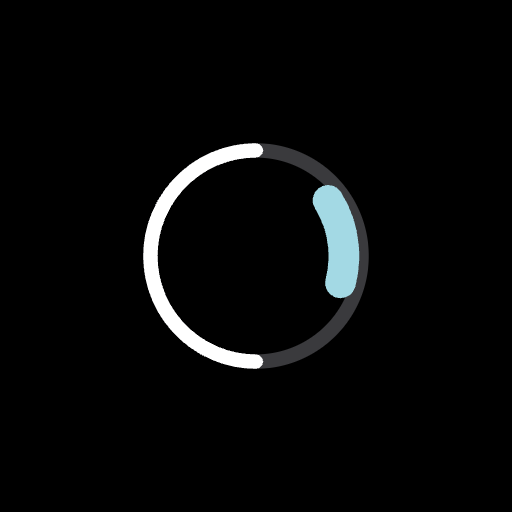
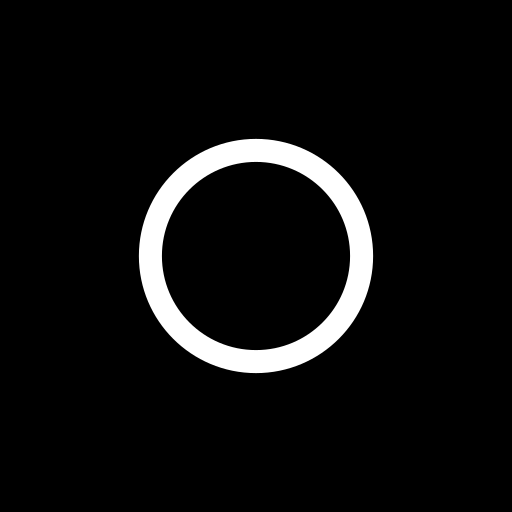
feat: give circal a mark and a share card
The favicon was a grey ring, a white half-turn and a blue arc — a
miniature of an old dial nobody would recognise at 16px. It is now the
one thing the product is: a black disc and a single thin white
circumference.

- r=11 and stroke 2.4 were picked by rendering at 16px, not by ratio.
  That radius lands both stroke edges on whole pixels, and anything
  thinner antialiases to grey rather than white.
- icon.svg is the same ring full-bleed for the maskable crop; the three
  PNGs are rasterised from it with rsvg-convert.
- CACHE in sw.js goes to v2. public/ is the only unhashed part of the
  build and it is served stale-while-revalidate, so without the bump an
  installed client gets the old icon one more time.
- og.png (1200x630) is the wordmark in Geist beside the mark, with the
  meta to go with it: og:url, og:image and a summary_large_image card.
  Absolute URLs via Astro.site, because a relative og:image is dropped.
- The mark also sits at the top-left of the bar, in ink-2 rather than
  white — chrome is grey, and the dial is what the eye should find. It
  hides below 1080px: the date readout is centred on the bar, not on the
  space the button groups leave, so the lockup's 108px comes straight
  out of its clearance.

Changed region(s): [[0.25, 0.25, 0.75, 0.75]]

diff --git a/src/components/react/TopBar.tsx b/src/components/react/TopBar.tsx
@@ -3,7 +3,15 @@
  * command palette and new-event entry points.
  * ------------------------------------------------------------------ */
 
-import { ChevronLeft, ChevronRight, Command, PanelLeft, Plus, Settings } from "lucide-react";
+import {
+  ChevronLeft,
+  ChevronRight,
+  Circle,
+  Command,
+  PanelLeft,
+  Plus,
+  Settings,
+} from "lucide-react";
 import { formatDayHeader } from "@/lib/time";
 import type { TopBarProps } from "@/components/react/types";
 import { ActionPill, IconButton, Segmented } from "@/components/react/ui/primitives";
@@ -14,6 +22,22 @@ export default function TopBar({ day, view, sidebarOpen, onStep, actions }: TopB
   return (
     <div className="relative flex h-12 shrink-0 items-center border-b border-hairline px-3">
       <div className="flex items-center gap-2">
+        {/* The mark, which is the favicon: one thin circumference. It is
+            identity, not a control — no hover, no click target — and it sits at
+            `ink-2` because chrome is grey and a pure-white ring here would be
+            the brightest thing on the face outside the dial.
+
+            Below 1080px it is gone entirely, mark and divider both: the date
+            readout is centred on the *bar*, not on the space left over, so the
+            108px this lockup costs is 108px the readout stops having. 1080 is
+            where the two still clear each other with the longest header
+            `formatDayHeader` produces (`WEDNESDAY · SEP 30`). */}
+        <span className="hidden items-center gap-2 pl-0.5 text-ink-2 min-[1080px]:flex">
+          <Circle size={15} strokeWidth={1.75} aria-hidden="true" />
+          <span className="font-mono text-[13px] tracking-[0.14em]">circal</span>
+        </span>
+        <span aria-hidden="true" className="mx-1 hidden h-4 w-px bg-hairline min-[1080px]:block" />
+
         <IconButton label="Toggle sidebar" active={sidebarOpen} onClick={actions.toggleSidebar}>
           <PanelLeft size={15} strokeWidth={1.75} />
         </IconButton>

diff --git a/public/sw.js b/public/sw.js
@@ -9,7 +9,10 @@
  * cache for performance — it barely fetches anything to begin with.
  * ------------------------------------------------------------------ */
 
-const CACHE = "circal-v1";
+// Bumped when an *unhashed* `public/` asset changes — the icons are the only
+// ones — because stale-while-revalidate would otherwise serve the old file
+// once more to every installed client. Hashed assets never need this.
+const CACHE = "circal-v2";
 
 self.addEventListener("install", () => {
   // No precache list: Astro content-hashes every built asset filename, so

diff --git a/AGENTS.md b/AGENTS.md
@@ -50,6 +50,7 @@ src/pages/index.astro   static HTML shell
 | `src/lib/notify.ts`                      | The toast channel. Its own store on purpose — a four-second message is not persisted state                                   |
 | `worker/index.ts`                        | Assets + the `/api/feed` proxy and its SSRF guards                                                                           |
 | `public/sw.js`                           | Offline cache. Runtime-only: Astro content-hashes filenames, so there is nothing to precache                                 |
+| `public/favicon.svg`                     | The mark: a black disc and one thin white circumference. `icon.svg` is the same ring full-bleed for the maskable crop        |
 | `src/components/react/`                  | The island. `App.tsx` shell, `Dial.tsx` instrument, panels                                                                   |
 | `src/components/react/ui/primitives.tsx` | The eight shared controls all chrome is built from                                                                           |
 | `src/components/react/types.ts`          | **Every panel prop interface.** Edit shapes here                                                                             |
@@ -188,3 +189,7 @@ If you add a test framework, wire it into `verify` in `package.json` so the gate
 - **Read-only events are a `disabled` fieldset**, not a prop threaded through every control. It cascades to the swatch buttons and the `Select`s nested two components deep, which nothing else would reach. The title input sits outside it and carries its own `disabled`.
 - **`sun.ts` returns minutes since local midnight and does not clip.** A place far from the viewer legitimately produces a negative sunrise or a sunset past 1440; `Dial.tsx` samples inside `[0, 1440]` and lets the rest fall off the face.
 - **A place is chosen by city, never typed.** `settings.place` carries the IANA zone it was picked by, and `placeForZone` is the only thing that turns a zone into coordinates — so the picker can always show what the band is drawing. `store.parse()` drops a stored place with no `zone`: a band the settings panel says is off is worse than no band. Coordinates come from `zone.tab`, so they name the zone's principal city; that is a couple of minutes of sunrise error at worst, finer than the band draws.
+- **The icons and `og.png` are the only unhashed assets, so `CACHE` in `sw.js` ships them.** Everything Astro builds is content-hashed; `public/` is not. The worker serves `public/` stale-while-revalidate, so an installed client gets the _old_ icon one more time after a change unless `CACHE` is bumped. Bump it in the same commit that touches an icon.
+- **`icon-192.png`, `icon-512.png` and `apple-touch-icon.png` are rasterised from `icon.svg`** — `rsvg-convert -w N -h N public/icon.svg -o public/icon-N.png` — and `public/og.png` (1200×630) is rendered in a browser, because it sets type in Geist and Geist Mono and no rasteriser here has them: the mark at the icon's own stroke proportion, `circal` at 104px/500 and `-0.035em`, the tagline in mono at 22px/500 uppercase and `0.2em` tracking on `--ink-2`. There is no build step for any of them; edit the SVG, re-render, bump `CACHE`.
+- **The favicon's `r=11` / `stroke-width=2.4` were chosen at 16px, not by ratio.** That radius puts both stroke edges on whole pixels where a circle is otherwise smeared across three, and anything thinner antialiases to grey instead of white. Re-render at 16px before changing either.
+- **The wordmark in `TopBar` disappears below 1080px.** The date readout is absolutely centred on the bar, not on the space the two button groups leave, so the lockup's 108px comes straight out of the readout's clearance; 1080 is where they still clear with the longest header `formatDayHeader` produces. Anything added to the left group has to re-check that number.
